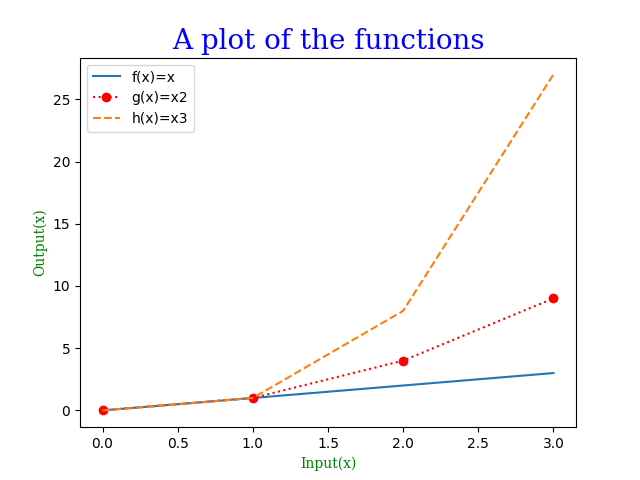
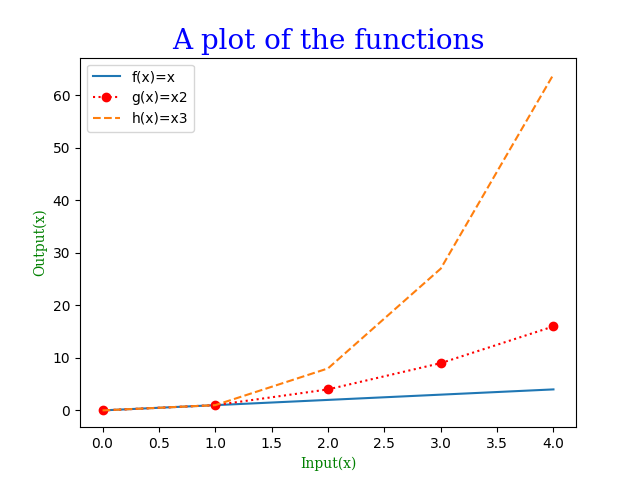
fixed01

diff --git a/topic07-files.md/es.py b/topic07-files.md/es.py
@@ -1,23 +1,25 @@
 # The program that reads a text file and prints the number of selected letters it contains.
-#Author: Denis Sarf
+# Author: Denis Sarf
 
 
+# import sys — System-specific parameters and functions
+import sys
 
-filename = input("Enter file name: ")  #input of the file with which the program will work
+#argv[1] represents the first command-line argument
+filename = sys.argv[1]
 
-#selected_letter = input("Enter letter to be searched:")  #additional function: entering a letter to be counted
-
-selected_letter = 'e'  #variable defining the letter "e"
+selected_letter = 'e'  # variable defining the letter "e"
 
 total = 0
 
 with open(filename, 'rt') as f: #open the file and read
-    for line in f:    #the loop splits from text to words 
+    for line in f:    # the loop splits from text to words 
         words = line.split() 
-        for i in words:
-            for letter in i: #the loop checks if the letter is a selected letter or letter "e"
-                if (letter == selected_letter):
-                    total += 1
+        for word in words:
+            # checking if selected_letter in word
+            if selected_letter in word:
+                total += 1
 
 print(f'The file contains a total of {total} letters "{selected_letter}"')
-print(total) #print only number
+print(total) # print only number
+

diff --git a/week06-functions.md/squareroot.py b/week06-functions.md/squareroot.py
@@ -14,15 +14,17 @@ def sqrt(num):#Newton's method
         estimate = (estimate + num / estimate) / 2
         difference = abs(num - estimate ** 2)
         if difference <= tolerance:
-            break
-   return estimate
+            return estimate
 
 
 def main():
+
    while True:
-       num = input("Enter a positive number or enter/return to quit: ") #input a number
-       if num == "": 
-           break
+
+       num = input("Enter a positive floating-point number: ") #input a number
+
+       if num == "" or float(num) < 0: # checking if the input is empty or a negative number was entered
+           num = input("Something is wrong!!! Enter a positive floating-point number: ") #input a number
        num = float(num)
        result_1 = round(math.sqrt(num), 1)
        print("Newton's method estimate is", result_1) #output Newton's method

diff --git a/week03.md/secondstring.py b/week03.md/secondstring.py
@@ -1,10 +1,11 @@
 # The program that takes asks a user to input a string and outputs every second letter in reverse order
 # Author: Denis Sarf
 
+# input the string
+string = input("Please enter a string:")
 
-string = input("Please enter a sentence:")
-
+# take every second letter
 str_second_letter = string[1::2]
-reverse_string = str_second_letter[::-1]
 
-print(reverse_string)
+# output letters in reverse order 
+print(str_second_letter[::-1])

diff --git a/Topic08-plotting.md/plottask.py b/Topic08-plotting.md/plottask.py
@@ -15,7 +15,7 @@ def g(x):  #function g(x)=x2
 def h(x):  #function h(x)=x3
     return x ** 3
 
-x = np.array(range(0, 4))   #range [0, 4] range 0 to 3, 4 not included
+x = np.array(range(0, 5))   #range [0, 4] range 0 to 3, 4 not included
 
 plt.figure()
 #The plot() function is used to draw points in a diagram and the function takes parameters for specifying points in the diagram.

diff --git a/README.md b/README.md
@@ -54,58 +54,99 @@ python --version
 *** Lecturer Andrew Beatty (andrew.beatty@gmit.ie) ***
 
 
-### Week 02
+### Week02  Topic 2: Statements
 
-- Week 02 has a discussion what a program is and write a simple program.
+- Week02 has a discussion what a program is and write a simple program.
 
 - [Weekly Tasks 02](week02.md)
 
 
-### Week 03
+### Week03  Topic 3: Variables
 
-- Week 03 has a discussion of what variables are in Python.
+- Week03 has a discussion of what variables are in Python.
 
 - [Weekly Tasks 03](week03.md)
 
 
-### Week 04
+### Week04  Topic 4: Controlling the flow
 
-- Week 04 has a discussion controlling the flow of a program in Python, by making some statements conditional and repeating others.
+- Week04 has a discussion controlling the flow of a program in Python, by making some statements conditional and repeating others.
 
 - [Weekly Tasks 04](week04-flow.md)
 
 
-### Week 05
+### Week05  Topic 5: Data
 
-- Week 05 has an of training what is a list, tuple, and dictionary.
+- Week05 has an of training what is a list, tuple, and dictionary.
 
 - [Weekly Tasks 05](week05_datastructures.md)
 
 
-### Week 06
+### Week06   Topic 6: Functions
 
-- Week 06 is dedicated to the creation of the function and the module.
+- Week06 is dedicated to the creation of the function and the module.
 
 - [Weekly Tasks 06](week06-functions.md)
 
 
-### Week 07
+### Week07   Topic 7: Files
 
-- Week 07 has a discussion opening and reading to and from files.
+- Week07 has a discussion opening and reading to and from files.
 
 - [Weekly Tasks 07](week05_datastructures.md)
 
 
-### Week 08
+### Week08   Topic 8: Looking ahead
 
-- Week 08 exploring plotting techniques with the matplotlib module.
+- Week08 exploring plotting techniques with the matplotlib module.
 
 - [Weekly Tasks 08](Topic08-plotting.md)
 
 
-### Useful sources: 
+### Week09   Topic 9: Errors
+
+- Week09 includes a discussion on:  
+errors / exceptions (when things go wrong), 
+testing your code (making sure your code does what you expect),
+logging: (a more advanced print).
+
+
+
+### Week10   Topic 10: Objects
+
+- Week10 has a discussion on :
+Organizing your code, 
+Object classes and object instances,
+Function programming Vs Object-oriented Programming
+
+
+### Week11   Extra Topic 11 - Pandas
+
+- Week11 has a discussion of what Pandas is: 
+What is Pandas (dataframe and series)lReading and writing data from/to files
+Tidying up and manipulating data
+Introduction to Data Analysis with Pandas
+
+
+
+
+### Resources: 
+- https://en.wikipedia.org/wiki/Python_(programming_language)
 - https://www.w3schools.com/
 - https://realpython.com/
 - https://numpy.org/
 - https://matplotlib.org/
 - https://pandas.pydata.org/
+- https://stackoverflow.com/questions
+- https://www.programiz.com/python-programming/operators
+- https://docs.python.org/3/tutorial/introduction.html
+- https://www.geeksforgeeks.org/python-operators/
+- https://developers.google.com/edu/python/lists
+- https://learnonline.gmit.ie/pluginfile.php/268696/mod_label/intro/Unix%20and%20Linux%20Command%20Reference%20-%20FOSSwire.pdf?time=1610966463814
+- https://learnonline.gmit.ie/pluginfile.php/268696/mod_label/intro/git-cheat-sheet-education.pdf
+- https://programminghistorian.org/en/lessons/retired/getting-started-with-github-desktop
+- https://jakevdp.github.io/WhirlwindTourOfPython/
+- https://www.anaconda.com/
+- https://code.visualstudio.com/
+- http://files.urpdfs.com/automate-the-boring-stuff-with-python.pdf
+
